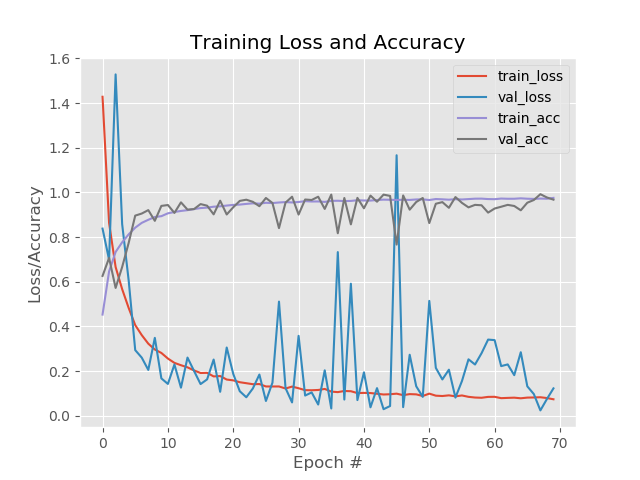
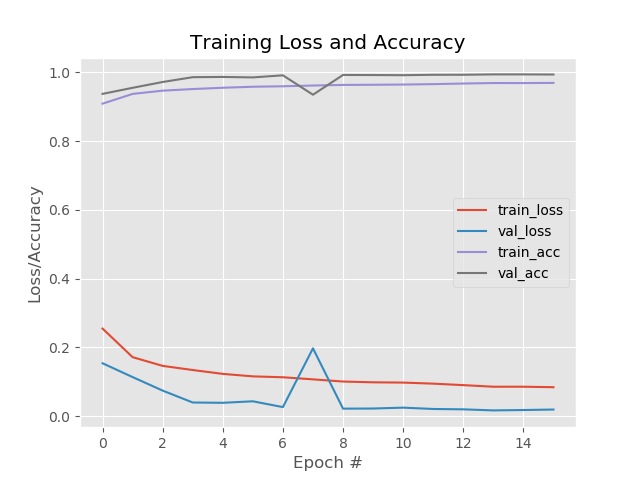
Add files via upload

diff --git a/continue.py b/continue.py
@@ -1,0 +1,99 @@
+import matplotlib
+matplotlib.use("Agg")
+
+from model.vggnet import VGGNet
+from sklearn.preprocessing import LabelBinarizer
+from sklearn.model_selection import train_test_split
+from sklearn.metrics import classification_report
+from keras.preprocessing.image import ImageDataGenerator
+from keras.optimizers import SGD
+from keras.models import load_model
+from imutils import paths
+import matplotlib.pyplot as plt
+import numpy as np
+import argparse
+import random
+import pickle
+import cv2
+import os
+
+ap = argparse.ArgumentParser()
+ap.add_argument("-d", "--dataset", required=True)
+ap.add_argument("-m", "--model", required=True)
+ap.add_argument("-l", "--label-bin", required=True)
+ap.add_argument("-p", "--plot", required=True)
+args = vars(ap.parse_args())
+
+print("[INFO] loading images...")
+data = []
+labels = []
+
+imagePaths = sorted(list(paths.list_images(args["dataset"])))
+random.seed(42)
+random.shuffle(imagePaths)
+
+for imagePath in imagePaths:
+	image = cv2.imread(imagePath)
+	image = cv2.resize(image, (64, 64))
+	data.append(image)
+	label = imagePath.split(os.path.sep)[-2]
+	labels.append(label)
+
+
+data = np.array(data, dtype="float") / 255.0
+labels = np.array(labels)
+
+
+(trainX, testX, trainY, testY) = train_test_split(data,
+	labels, test_size=0.2, random_state=42)
+
+
+lb = LabelBinarizer()
+trainY = lb.fit_transform(trainY)
+testY = lb.transform(testY)
+
+
+aug = ImageDataGenerator(rotation_range=30, width_shift_range=0.1,
+	height_shift_range=0.1, shear_range=0.2, zoom_range=0.2,
+	horizontal_flip=True, fill_mode="nearest")
+
+model = load_model("output/vggnet.model")
+INIT_LR = 0.1
+EPOCHS = 16
+BS = 32
+
+
+print("[INFO] training network...")
+opt = SGD(lr=INIT_LR, decay=INIT_LR / EPOCHS)
+
+H = model.fit_generator(aug.flow(trainX, trainY, batch_size=BS),
+	validation_data=(testX, testY), steps_per_epoch=len(trainX) // BS,
+	epochs=EPOCHS)
+
+
+print("[INFO] evaluating network...")
+predictions = model.predict(testX, batch_size=32)
+print(classification_report(testY.argmax(axis=1),
+	predictions.argmax(axis=1), target_names=lb.classes_))
+
+
+
+print("[INFO] serializing network and label binarizer...")
+model.save(args["model"])
+f = open(args["label_bin"], "wb")
+f.write(pickle.dumps(lb))
+f.close()
+
+
+N = np.arange(0, EPOCHS)
+plt.style.use("ggplot")
+plt.figure()
+plt.plot(N, H.history["loss"], label="train_loss")
+plt.plot(N, H.history["val_loss"], label="val_loss")
+plt.plot(N, H.history["acc"], label="train_acc")
+plt.plot(N, H.history["val_acc"], label="val_acc")
+plt.title("Training Loss and Accuracy")
+plt.xlabel("Epoch #")
+plt.ylabel("Loss/Accuracy")
+plt.legend()
+plt.savefig(args["plot"])

diff --git a/test1.py b/test1.py
@@ -1,0 +1,49 @@
+from model.vggnet import VGGNet
+from sklearn.preprocessing import LabelBinarizer
+from sklearn.model_selection import train_test_split
+from sklearn.metrics import classification_report
+from keras.preprocessing.image import ImageDataGenerator
+from keras.optimizers import SGD
+from keras.models import load_model
+from imutils import paths
+from keras.utils import to_categorical
+import matplotlib.pyplot as plt
+import numpy as np
+import argparse
+import random
+import pickle
+import cv2
+import os
+
+ap = argparse.ArgumentParser()
+ap.add_argument("-d", "--dataset", required=True)
+ap.add_argument("-m", "--model", required=True)
+ap.add_argument("-l", "--label-bin", required=True)
+args = vars(ap.parse_args())
+
+print("[INFO] loading images...")
+data = []
+labels = []
+
+imagePaths = sorted(list(paths.list_images(args["dataset"])))
+random.seed(42)
+random.shuffle(imagePaths)
+
+for imagePath in imagePaths:
+	image = cv2.imread(imagePath)
+	image = cv2.resize(image, (64, 64))
+	data.append(image)
+	label = imagePath.split(os.path.sep)[-2]
+	labels.append(label)
+
+
+data = np.array(data, dtype="float") / 255.0
+labels = np.array(labels)
+
+
+lb = LabelBinarizer()
+labels = lb.fit_transform(labels)
+
+model = load_model("output/vggnet.model")
+loss, acc = model.evaluate(data, labels)
+print("loss: ", loss, "\nacc: ", acc)

diff --git a/predict.py b/predict.py
@@ -34,7 +34,7 @@ else:
 
 
 print("[INFO] loading network and label binarizer...")
-model = load_model("vgg.h5")
+model = load_model("output")
 
 lb = pickle.loads(open(args["label_bin"], "rb").read())
 
